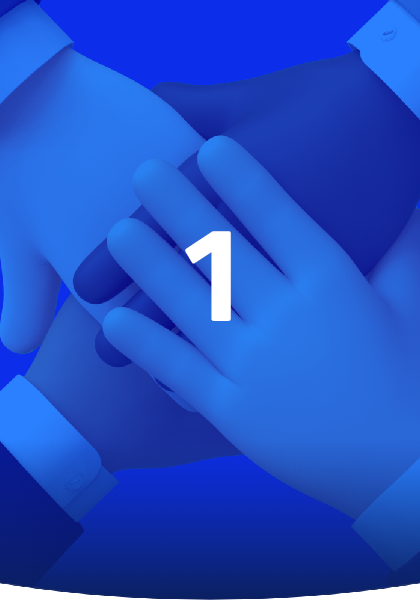
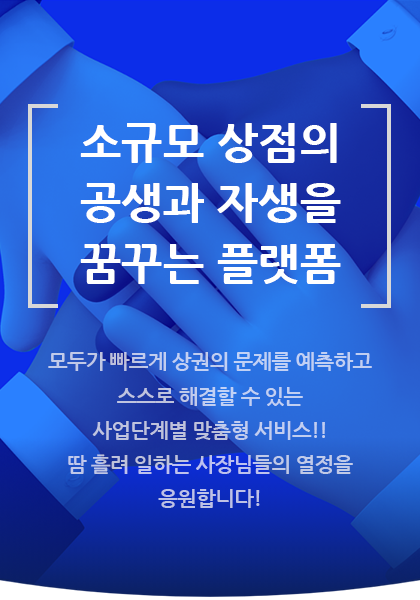
모바일 메인 배너 변경

diff --git a/sogongja_platform_user/src/main/resources/templates/pages/index.html b/sogongja_platform_user/src/main/resources/templates/pages/index.html
@@ -49,7 +49,7 @@
                                     </a>
                                 </div>
                                 <div class="swiper-slide" th:if="${#lists.isEmpty(mobileBannerList)}">
-                                    <div class="m_img" th:style="|background: url('@{/images/new/main/img_mainbg1.png}') no-repeat center;|"></div>
+                                    <div class="m_img" th:style="|background: url('@{/images/new/main/img_mainbgm1.png}') no-repeat center;|"></div>
                                 </div>
                                 <div class="swiper-slide" th:each="item : ${mobileBannerList}" th:unless="${#lists.isEmpty(mobileBannerList)}">
                                     <a th:href="${item.url}" th:target="${item.url_open_type != '1'?'_blank':''}">
